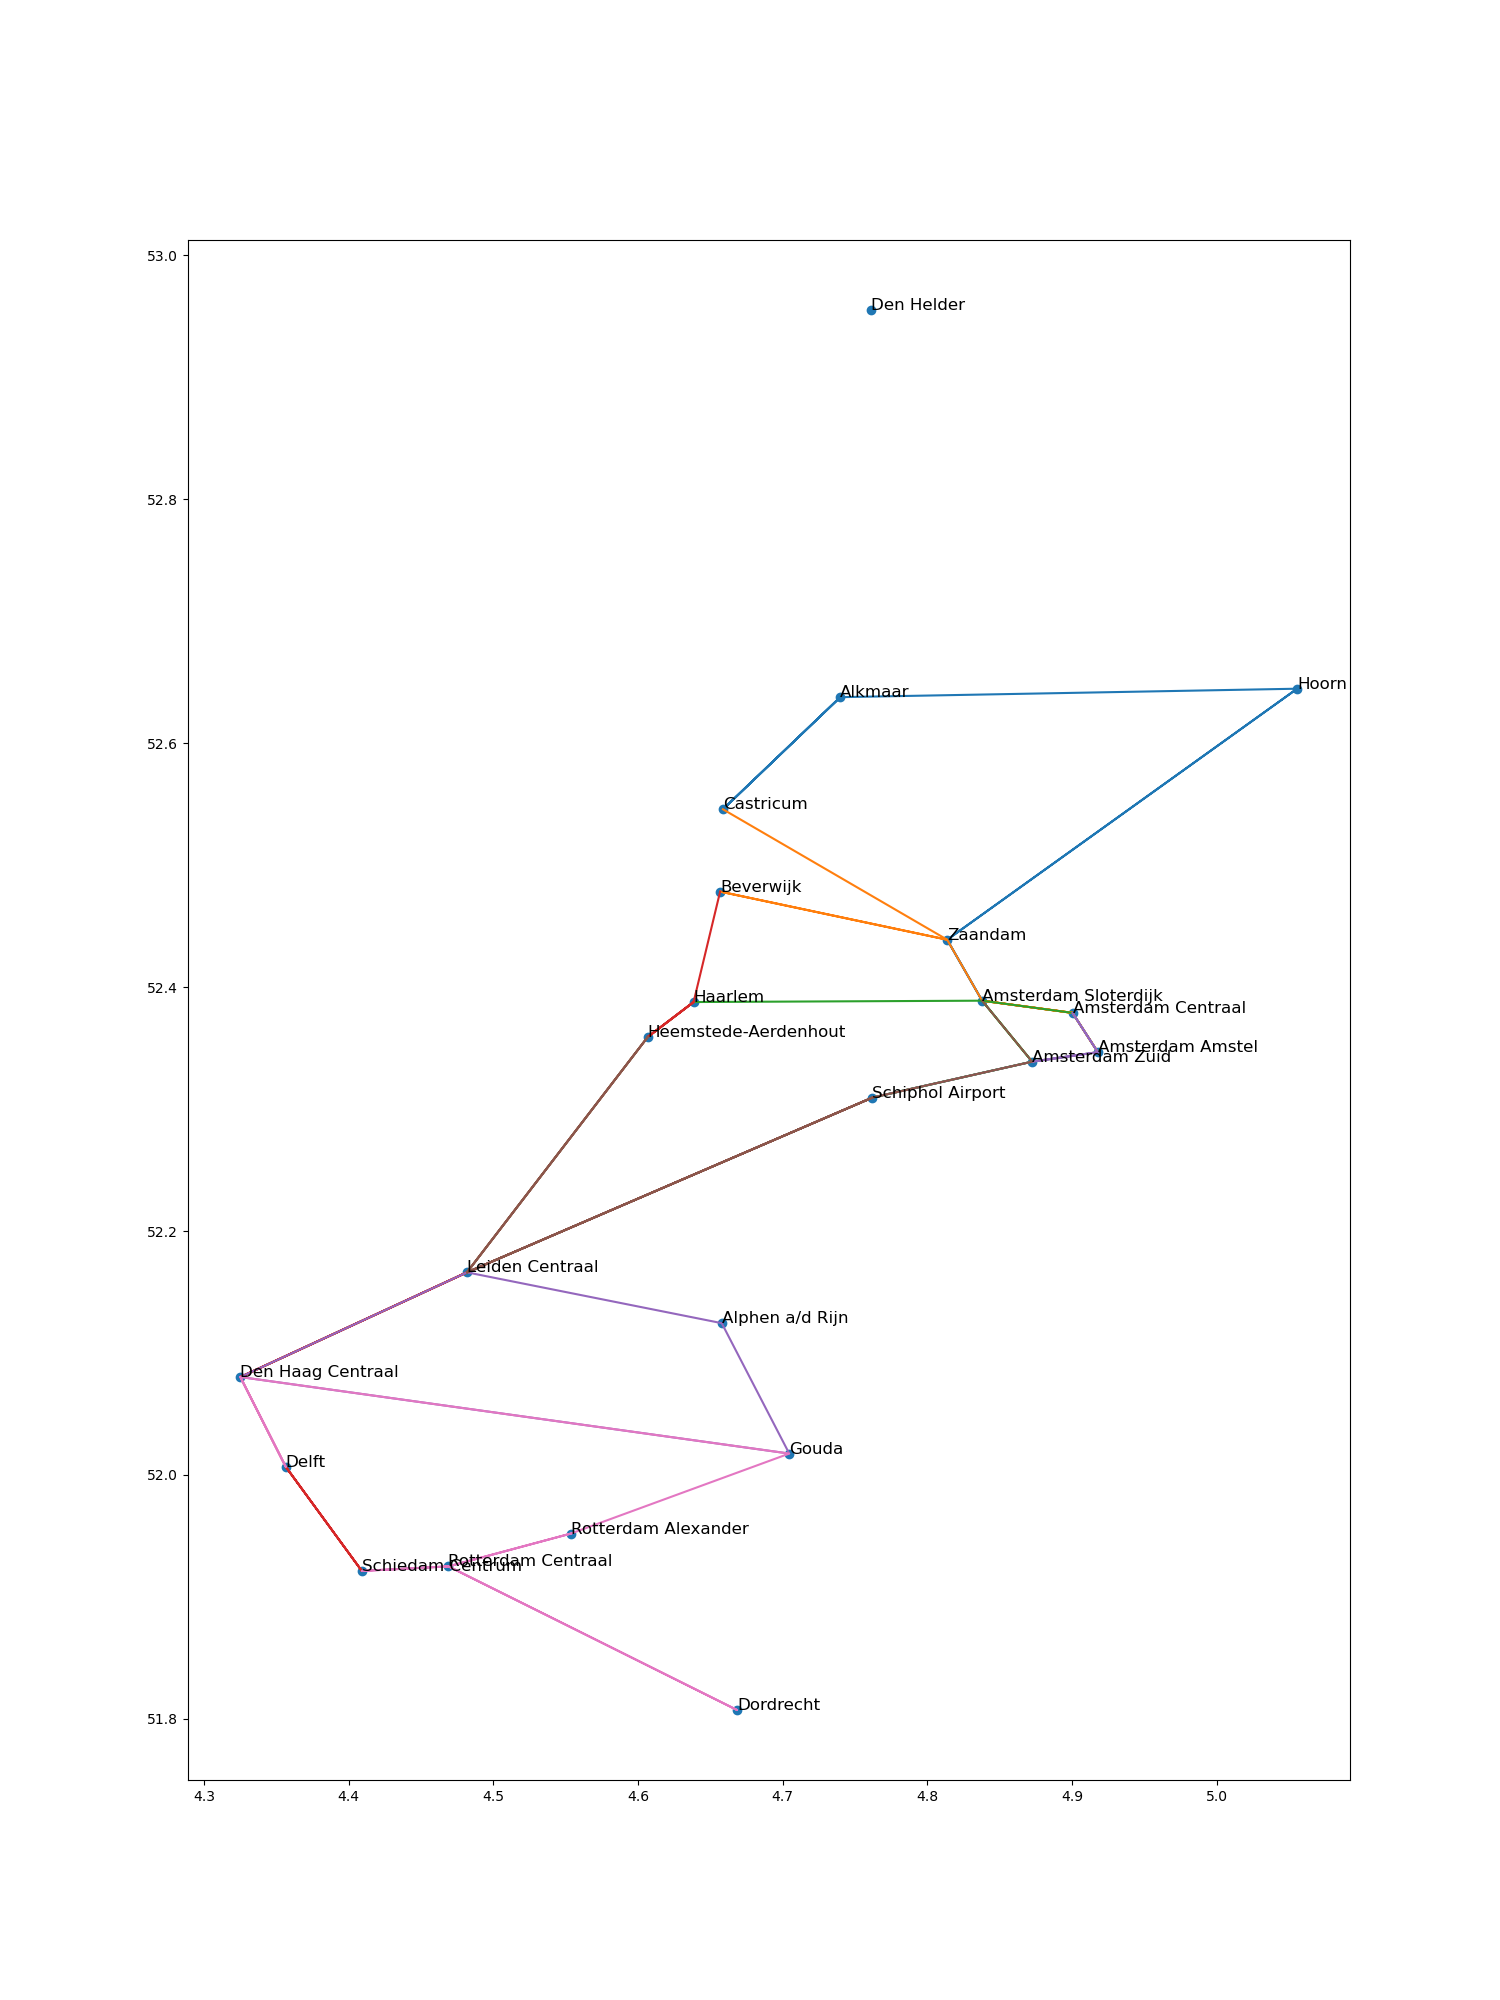
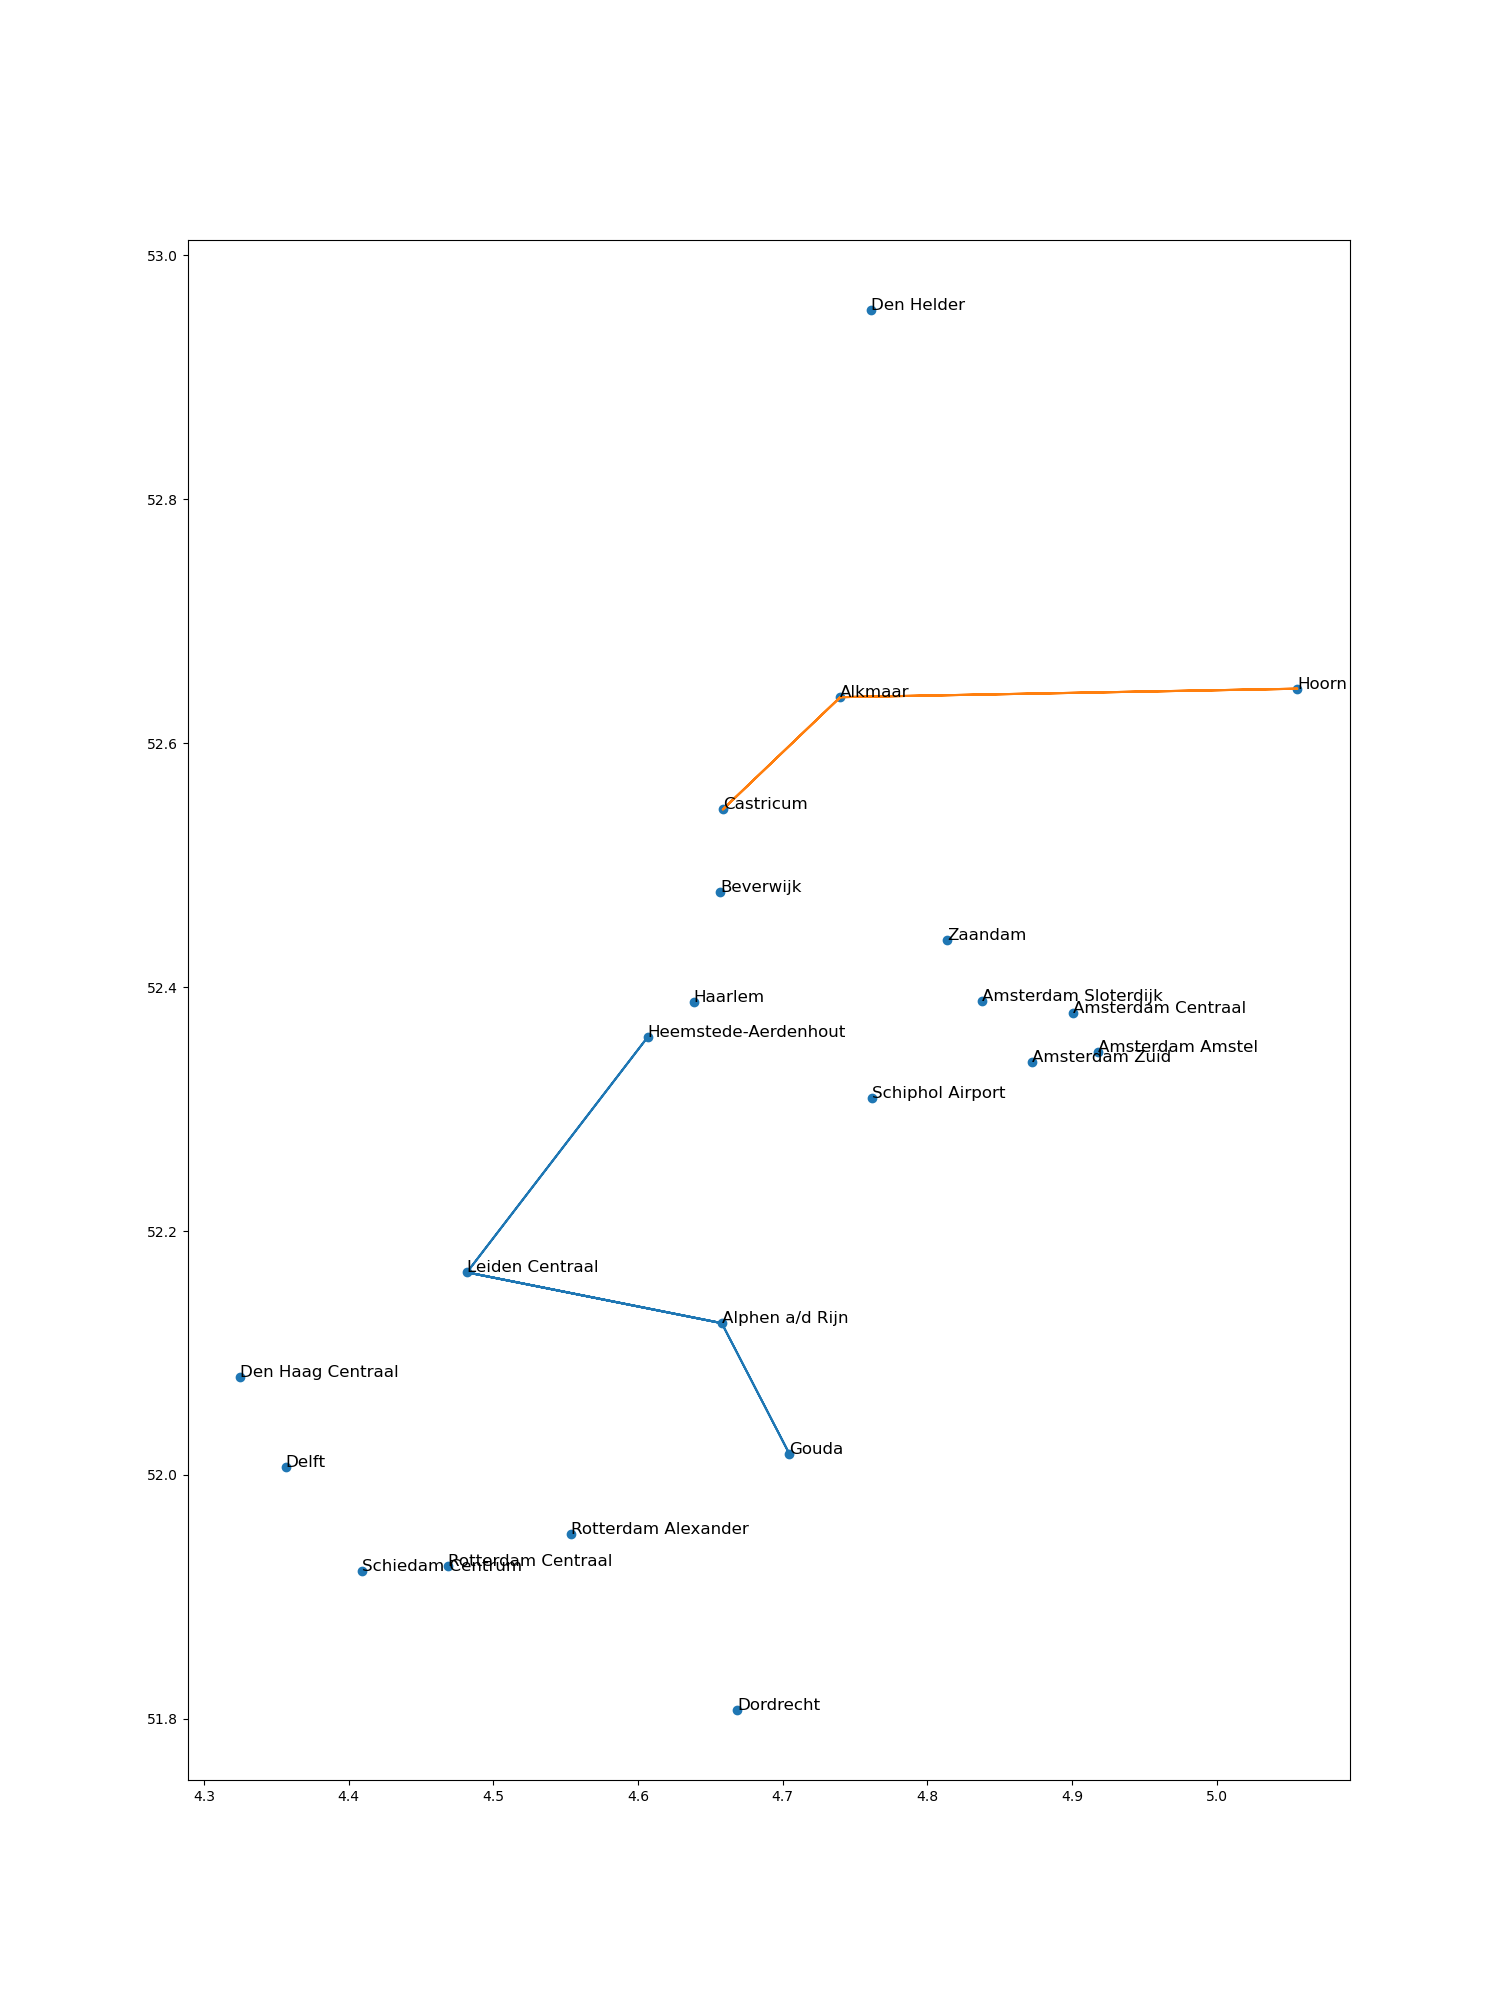
[addey] addeymain code verbeter en is klaar om over te zetten

diff --git a/addey_main.py b/addey_main.py
@@ -12,69 +12,37 @@ import math
 if __name__ == "__main__":
     
     # --------------------------- Hill Climber ---------------------------------
+    number_random_startstate = 5
+    hillclimber_iteration = 800
+    hillclimber_restart_iteration= 10
 
-    random.seed(10)
+
     print("Setting up Hill Climber...")
-    stations = make_connections()
-
-    # start state 1 oplossing = lijst[traject([stations)])]
-    # een lijst met oplossing 1 oploss#ing kiezen 
-    possible_solutions = []
-    for i in range(5):
-        solution = run_random_algoritme(stations,2)
-        possible_solutions.append(solution)
-    random_chosen_solution= random.choice(possible_solutions)
-
+    random_chosen_solution = make_random_start_state( number_random_startstate)
     # huidige trajectories opslaan en plotten
-    # score_chosen_solution = score_calc(random_chosen_solution)
-    # tracks_writer(random_chosen_solution, score_chosen_solution, 'data/output/hillclimber/chosen_trajectories.csv')
-    # run_plot_trajectories('data/output/hillclimber/chosen_trajectories.csv', 'data/images/hillclimber/huidige_trajectories.png')
+    score_chosen_solution = score_calc(random_chosen_solution)
+    tracks_writer(random_chosen_solution, score_chosen_solution, 'data/output/hillclimber/chosen_trajectories.csv')
+    run_plot_trajectories('data/output/hillclimber/chosen_trajectories.csv', 'data/images/hillclimber/huidige_trajectories.png')
   
-    
+    # 1 Hillclimber runnen en scores opslaan 
     climber =  HillClimber(random_chosen_solution)
-    result =climber.run(1)
+    result =climber.run(hillclimber_iteration)
     trajectories = result[0]
-    print(trajectories)
-    
-    # score na elke iteratie plotten 
-    # scores = result[1]
-    # plot_iterations_scores(scores,800, 'data/images/hillclimber/scores_na_wijziging.png')
-    # de uiteindelijke traject plotten 
-    # trajectories_after_hillclimber = result[0]
-    # score_after_hillclimber = result[2]
-    # tracks_writer(trajectories_after_hillclimber, score_after_hillclimber, 'data/output/hillclimber/trajectories_after_one_hill.csv')
-    # run_plot_trajectories('data/output/hillclimber/trajectories_after_one_hill.csv', 'data/images/hillclimber/trajectories_after_one_hill.png')
+    scores_after_iteration = result[1]
+    plot_iterations_scores(scores_after_iteration,hillclimber_iteration, 'data/images/hillclimber/scores_na_wijziging.png')
+    trajectories_after_1_hillclimber = result[0]
+    score_after_1_hillclimber = result[2]
+    tracks_writer(trajectories_after_1_hillclimber, score_after_1_hillclimber, 'data/output/hillclimber/trajectories_after_one_hill.csv')
+    run_plot_trajectories('data/output/hillclimber/trajectories_after_one_hill.csv', 'data/images/hillclimber/trajectories_after_one_hill.png')
   
+    # hillclimber meerdere keren runnen en plotten
+    hc_restart = restart_hillclimber(hillclimber_restart_iteration, hillclimber_iteration, random_chosen_solution)
+    plot_iterations_scores(hc_restart[1],hillclimber_restart_iteration, 'data/images/hillclimber/scores_iteration_hillclimber.png')
+    result_max = calculate_best_trajectory(hc_restart[0],hillclimber_restart_iteration)
     
-    ###
-
-    # hillclimber meerdere keren runnen en score na elke hilclimber printen 
-    # hillclimber_results = []
-    # scores_iteration_hillclimber = []
-    # for i in range(10):
-
-    #     climber =  HillClimber(random_chosen_solution)
-    #     result =climber.run(8)
-    #     hillclimber_results.append(result)
-    #     scores_iteration_hillclimber.append(result[2])
-    ###
-
-    # # plot_iterations_scores(scores_iteration_hillclimber,10, 'data/images/hillclimber/scores_iteration_hillclimber.png')
-    max_result = 0
-    
-    ###
-    # for i in range(10):
-    #     if int(hillclimber_results[i][2]) > max_result:
-    #         max_result = int(hillclimber_results[i][2])
-    #         best_trajectories = hillclimber_results[i][0]
-           
-    # print(max_result)
-
-    ###
-
     # de hilclimber met de beste score  plotten
-    # #tracks_writer(best_trajectories, max_result, 'data/output/hillclimber/trajectories_after_more_hill.csv')
-    # # run_plot_trajectories('data/output/hillclimber/trajectories_after_more_hill.csv', 'data/images/hillclimber/trajectories_after_more_hill.png')
+    tracks_writer(result_max[1], result_max[0], 'data/output/hillclimber/trajectories_after_more_hill.csv')
+    run_plot_trajectories('data/output/hillclimber/trajectories_after_more_hill.csv', 'data/images/hillclimber/trajectories_after_more_hill.png')
 
         
 

diff --git a/code/algoritmes/hillClimber.py b/code/algoritmes/hillClimber.py
@@ -4,6 +4,7 @@ from code.bouwblokjes.score import *
 from code.classes.station import *
 from code.classes.traject import *
 from code.bouwblokjes.inladen import *
+from .random_algoritme import *
 
 
 random.seed(10)
@@ -101,33 +102,24 @@ class HillClimber():
         return functions
     
     def run(self, iterations):
-
-        
+        """ Voert optimalisatie uit voor een bepaald aantal iteraties."""
         scores_na_iteratie = []
         for iteration in range(iterations):
 
+            # maak een copy 
             new_trajectories = copy.deepcopy(self.trajectories)
 
-            #self.mutate_trajectories(new_trajectories)
-            self.delete_last_connection(new_trajectories)
-            #self.change_start_station(new_trajectories)
-            #print(new_trajectories)
-            #self.separate_traject(new_trajectories)
-            #als de state is verslechterd:
-
-
-            # functions = self.mutate_random_trajectories()
-            # func = random.choice(functions)
-            # func(new_trajectories)
+            # breng wijzig aan 
+            functions = self.mutate_random_trajectories()
+            func = random.choice(functions)
+            func(new_trajectories)
             
-          
+            # check wijziging 
             self.check_solution(new_trajectories)
             scores_na_iteratie.append(self.value)
             
         return [new_trajectories, scores_na_iteratie, self.value]
-        #print(new_trajectories, len(new_trajectories))
                 
-
 
 def duplicate_traject(old_traject, start, start_index, end):
     """ traject dupliceren van en tot en met gekozen verbinding"""
@@ -138,17 +130,54 @@ def duplicate_traject(old_traject, start, start_index, end):
 
     for i in old_traject._stations[start_index:end]:
         traject.add_trajectconnection(station_object[i])
-
     return traject 
 
 def add_connections_to_trajectory(traject):
     """ voeg verbindingen toe aan de traject"""
-
     while True:
-
         connection = traject._endstation._connection[random.choice(list(traject._endstation._connection.keys()))]
         if int(traject._traveltime) + int(connection[1]) > 120:
             break
         traject.add_trajectconnection(connection[0])
-
     return traject 
+
+    
+
+
+
+
+def restart_hillclimber(iterations_hillclimber, mutation_iteration, random_chosen_solution):
+    """Hillclimber meerdere keren runnen met elke keer een andere start state"""
+    
+    hillclimber_results = []
+    scores_iteration_hillclimber = []
+    for i in range(iterations_hillclimber):
+
+        climber =  HillClimber(random_chosen_solution)
+        result =climber.run(mutation_iteration)
+        hillclimber_results.append(result)
+        scores_iteration_hillclimber.append(result[2])
+
+    return [hillclimber_results, scores_iteration_hillclimber]
+
+def calculate_best_trajectory(hc_restart, iteration_restart):
+    max_result = 0
+    hillclimber_results = hc_restart
+    
+    for i in range(iteration_restart):
+        if float(hillclimber_results[i][2]) > max_result:
+            max_result = float(hillclimber_results[i][2])
+            best_trajectories = hillclimber_results[i][0]
+
+    print(max_result)
+    return [max_result, best_trajectories]
+
+def make_random_start_state(number_of_starts):
+    """maakt random trajecten aan met random algoritme"""
+    stations = make_connections()
+    possible_solutions = []
+    for i in range(number_of_starts):
+        solution = run_random_algoritme(stations,2)
+        possible_solutions.append(solution)
+    random_chosen_solution= random.choice(possible_solutions)
+    return random_chosen_solution
